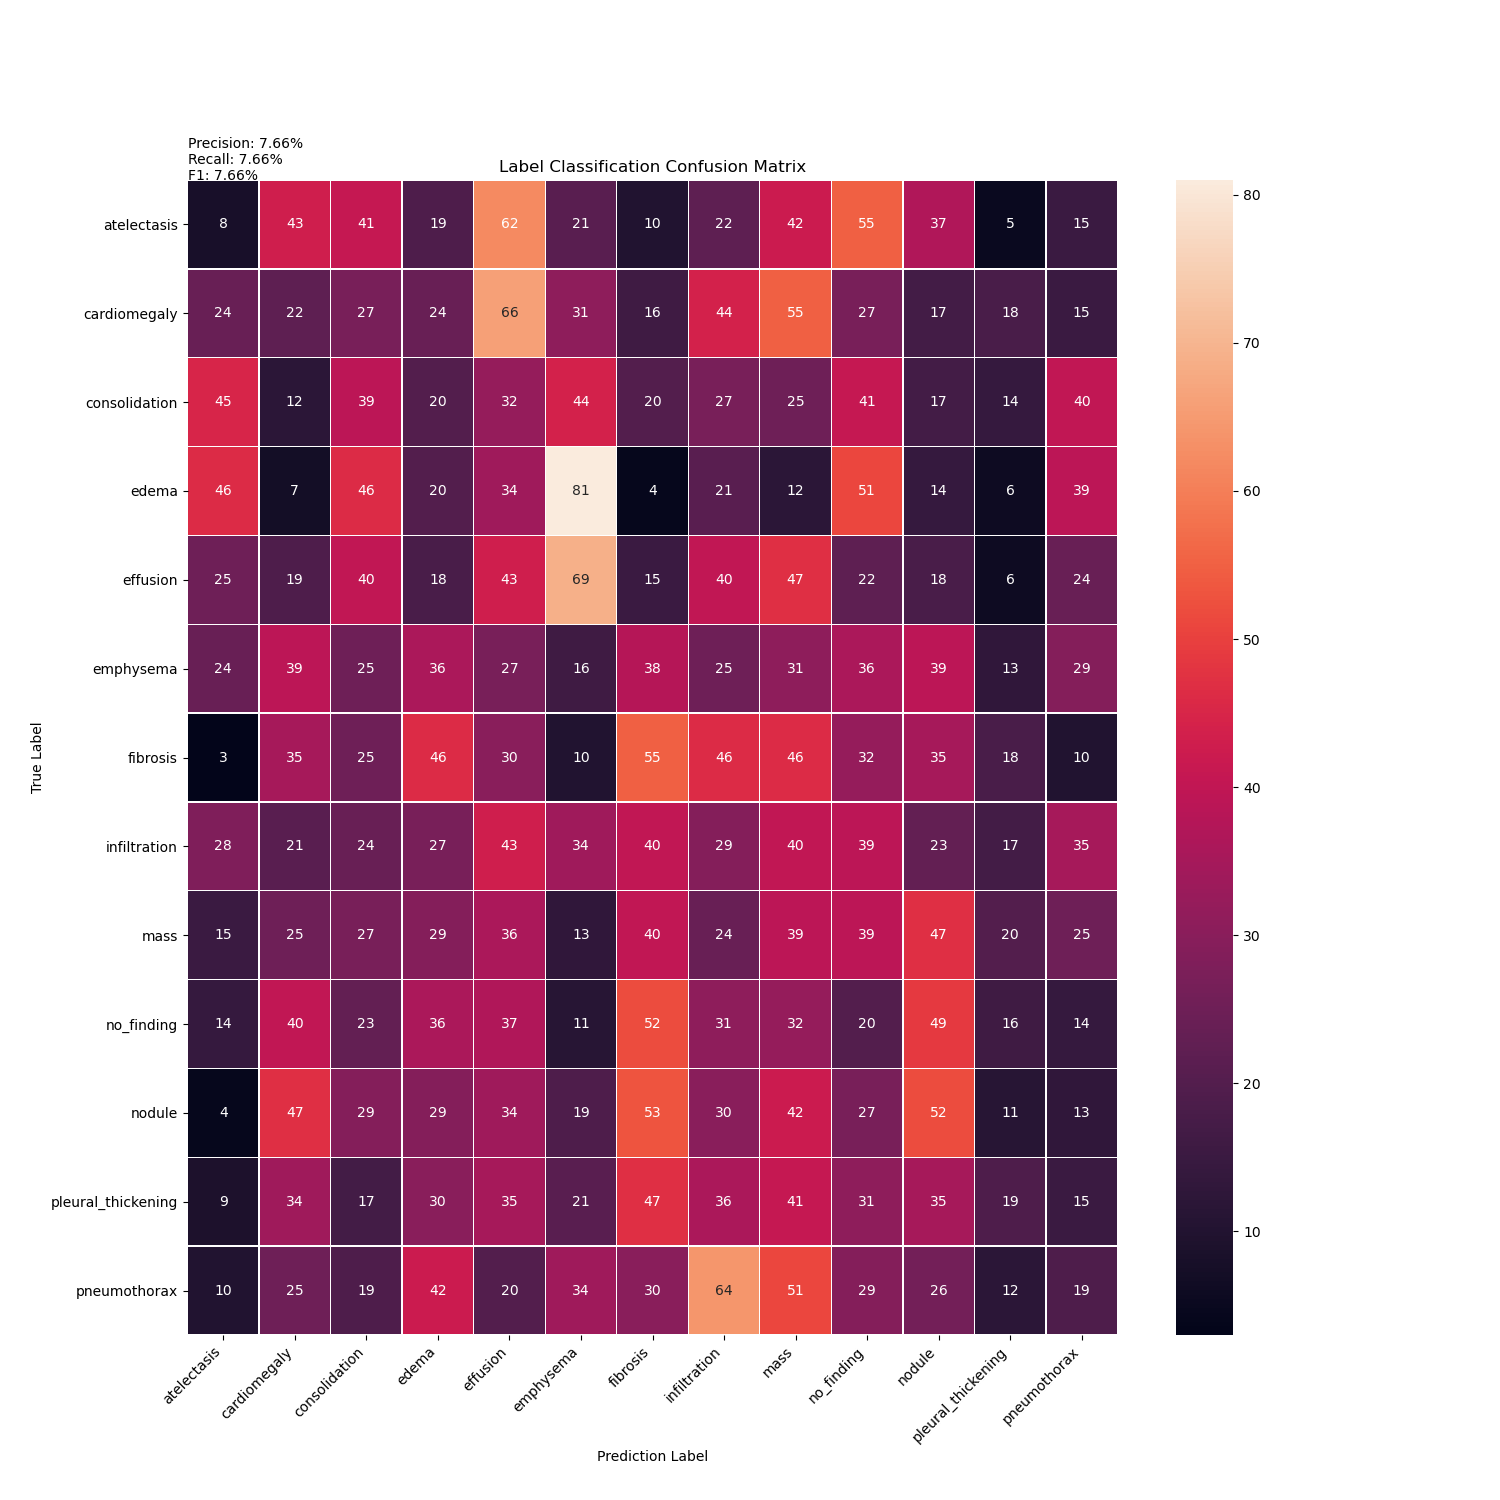
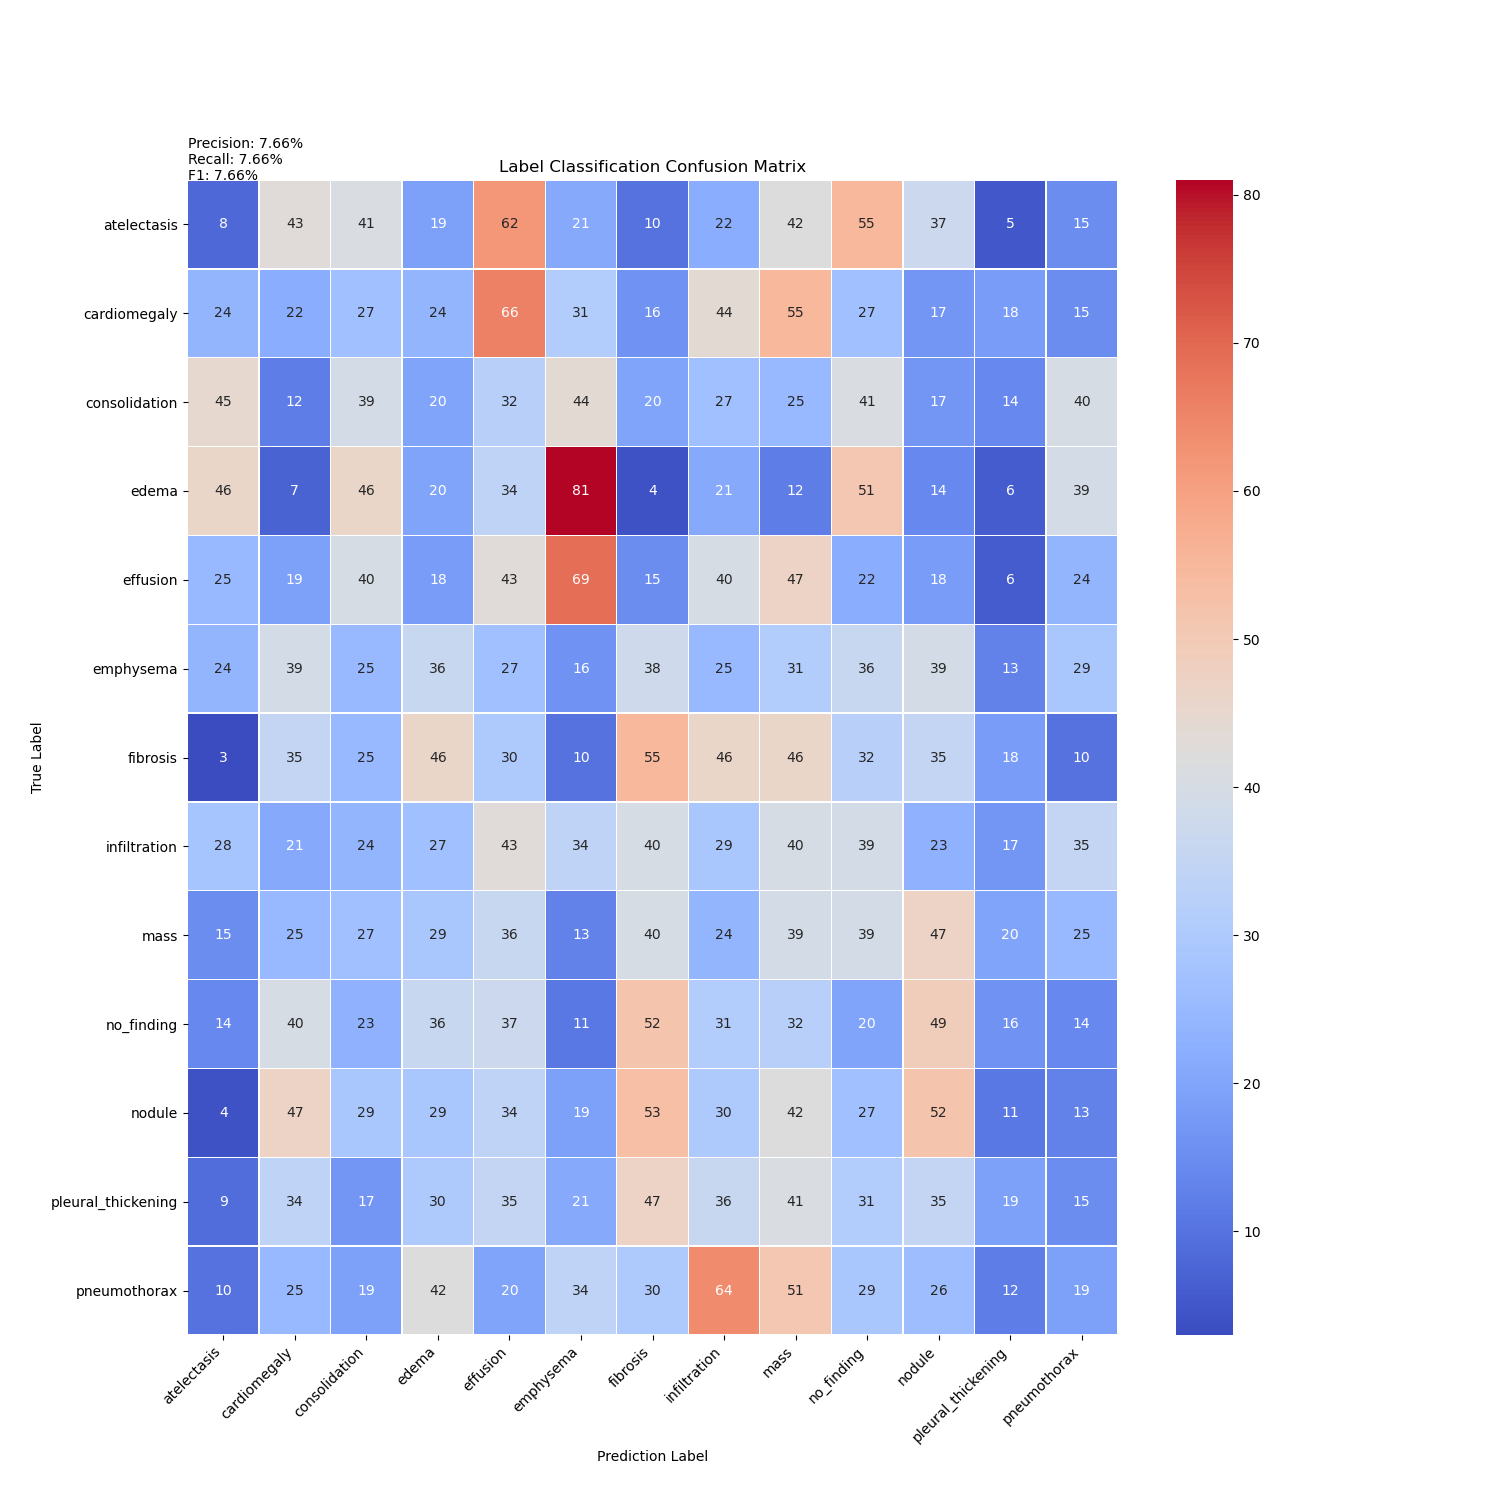
Use coolwarm colors for graph

diff --git a/ml/training/kmeans-analysis.py b/ml/training/kmeans-analysis.py
@@ -22,11 +22,12 @@ precision = round(precision_score(y, predictions, average="micro") * 100, 2)
 recall = round(recall_score(y, predictions, average="micro") * 100, 2)
 f1 = round(f1_score(y, predictions, average="micro") * 100, 2)
 cf = confusion_matrix(y, predictions)
+#%%
 
 metric_txt = f"Precision: {precision}%\nRecall: {recall}%\nF1: {f1}%"
 plt.figure(figsize=(15, 15))
 plt.text(0, 0, metric_txt)
-g = sn.heatmap(cf, annot=True, linewidths=0.25)
+g = sn.heatmap(cf, annot=True, linewidths=0.25, cmap="coolwarm")
 g.set_title("Label Classification Confusion Matrix")
 g.set_xlabel("Prediction Label")
 g.set_ylabel("True Label")
